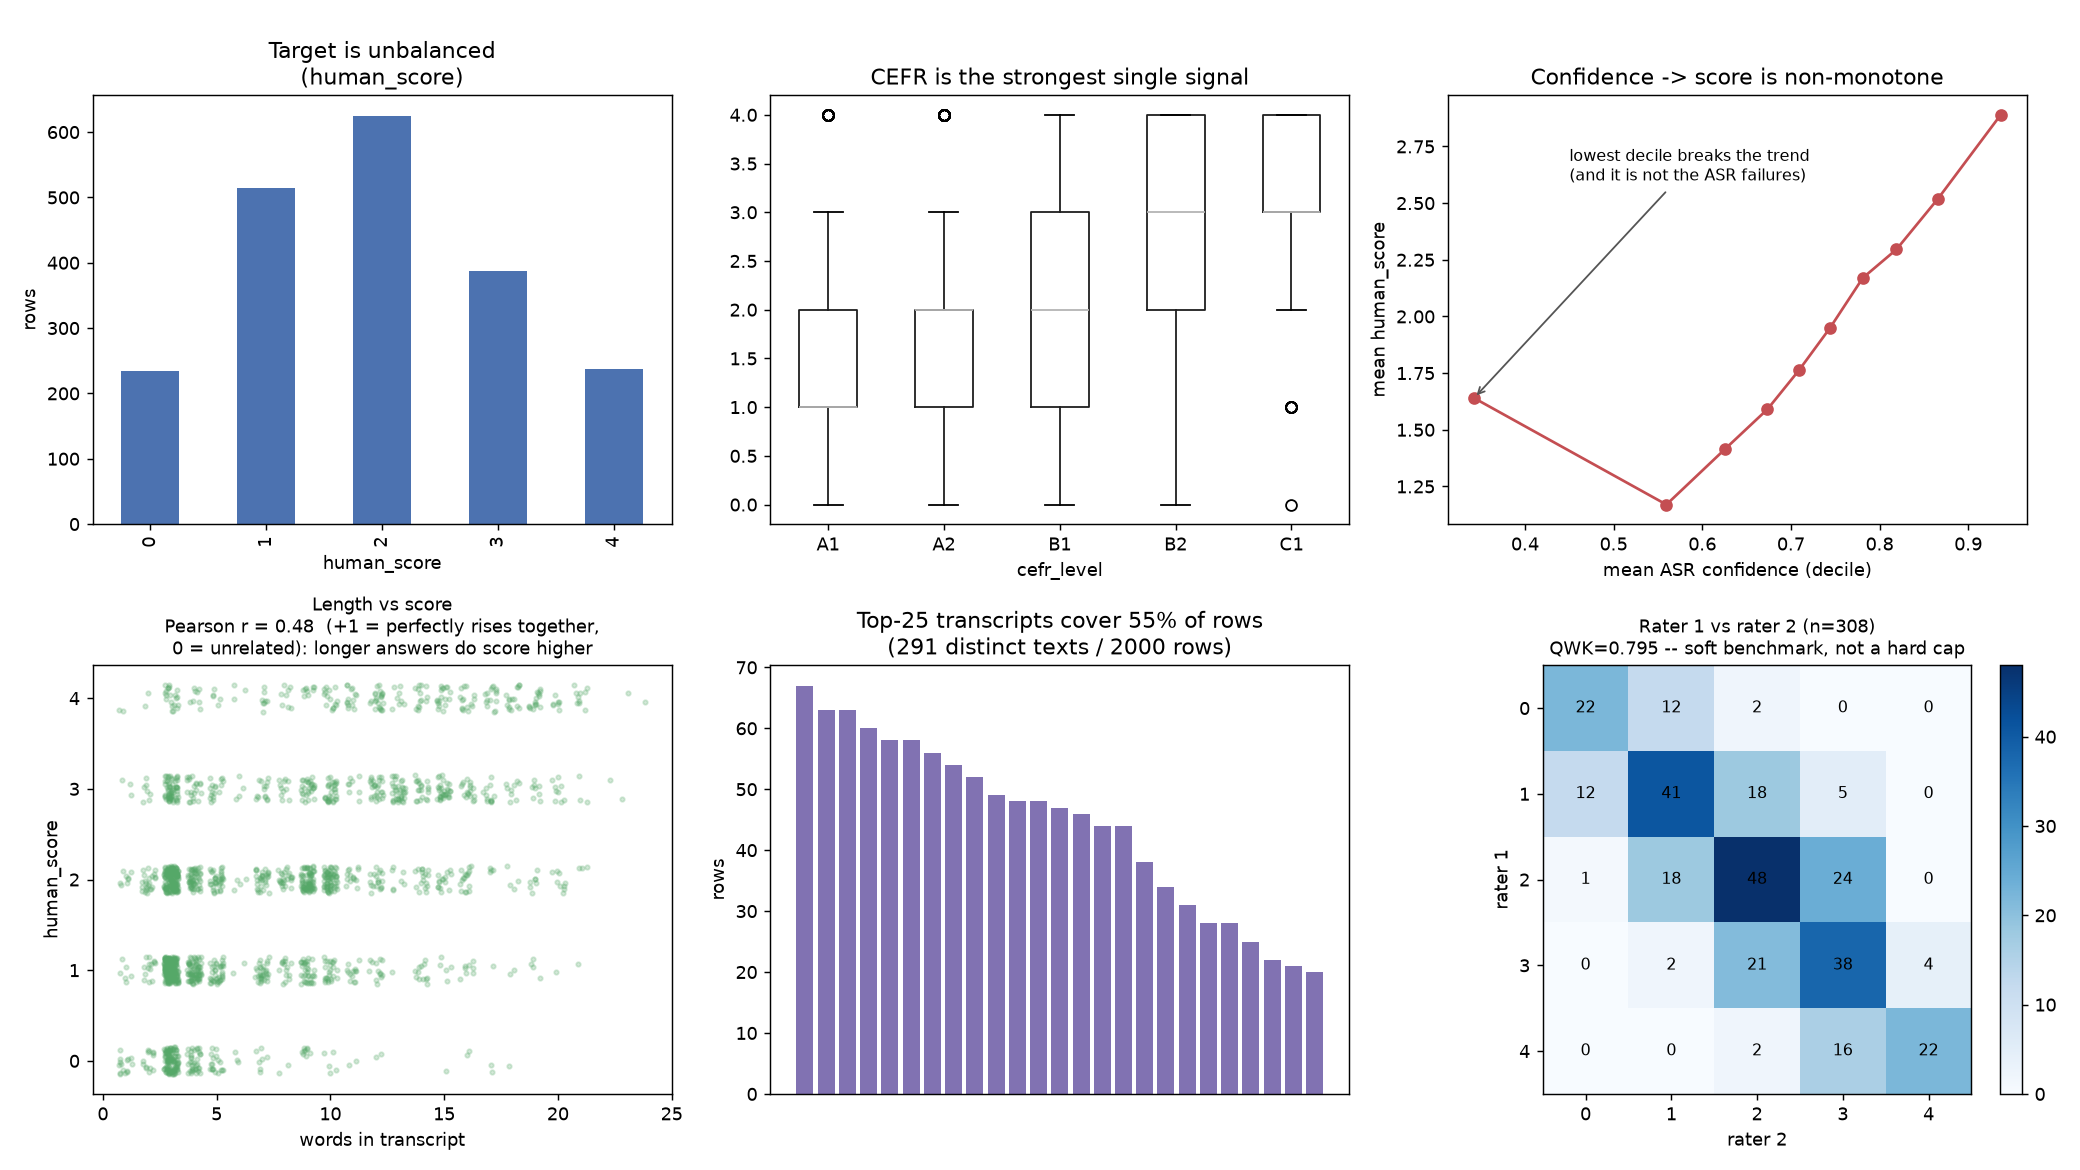
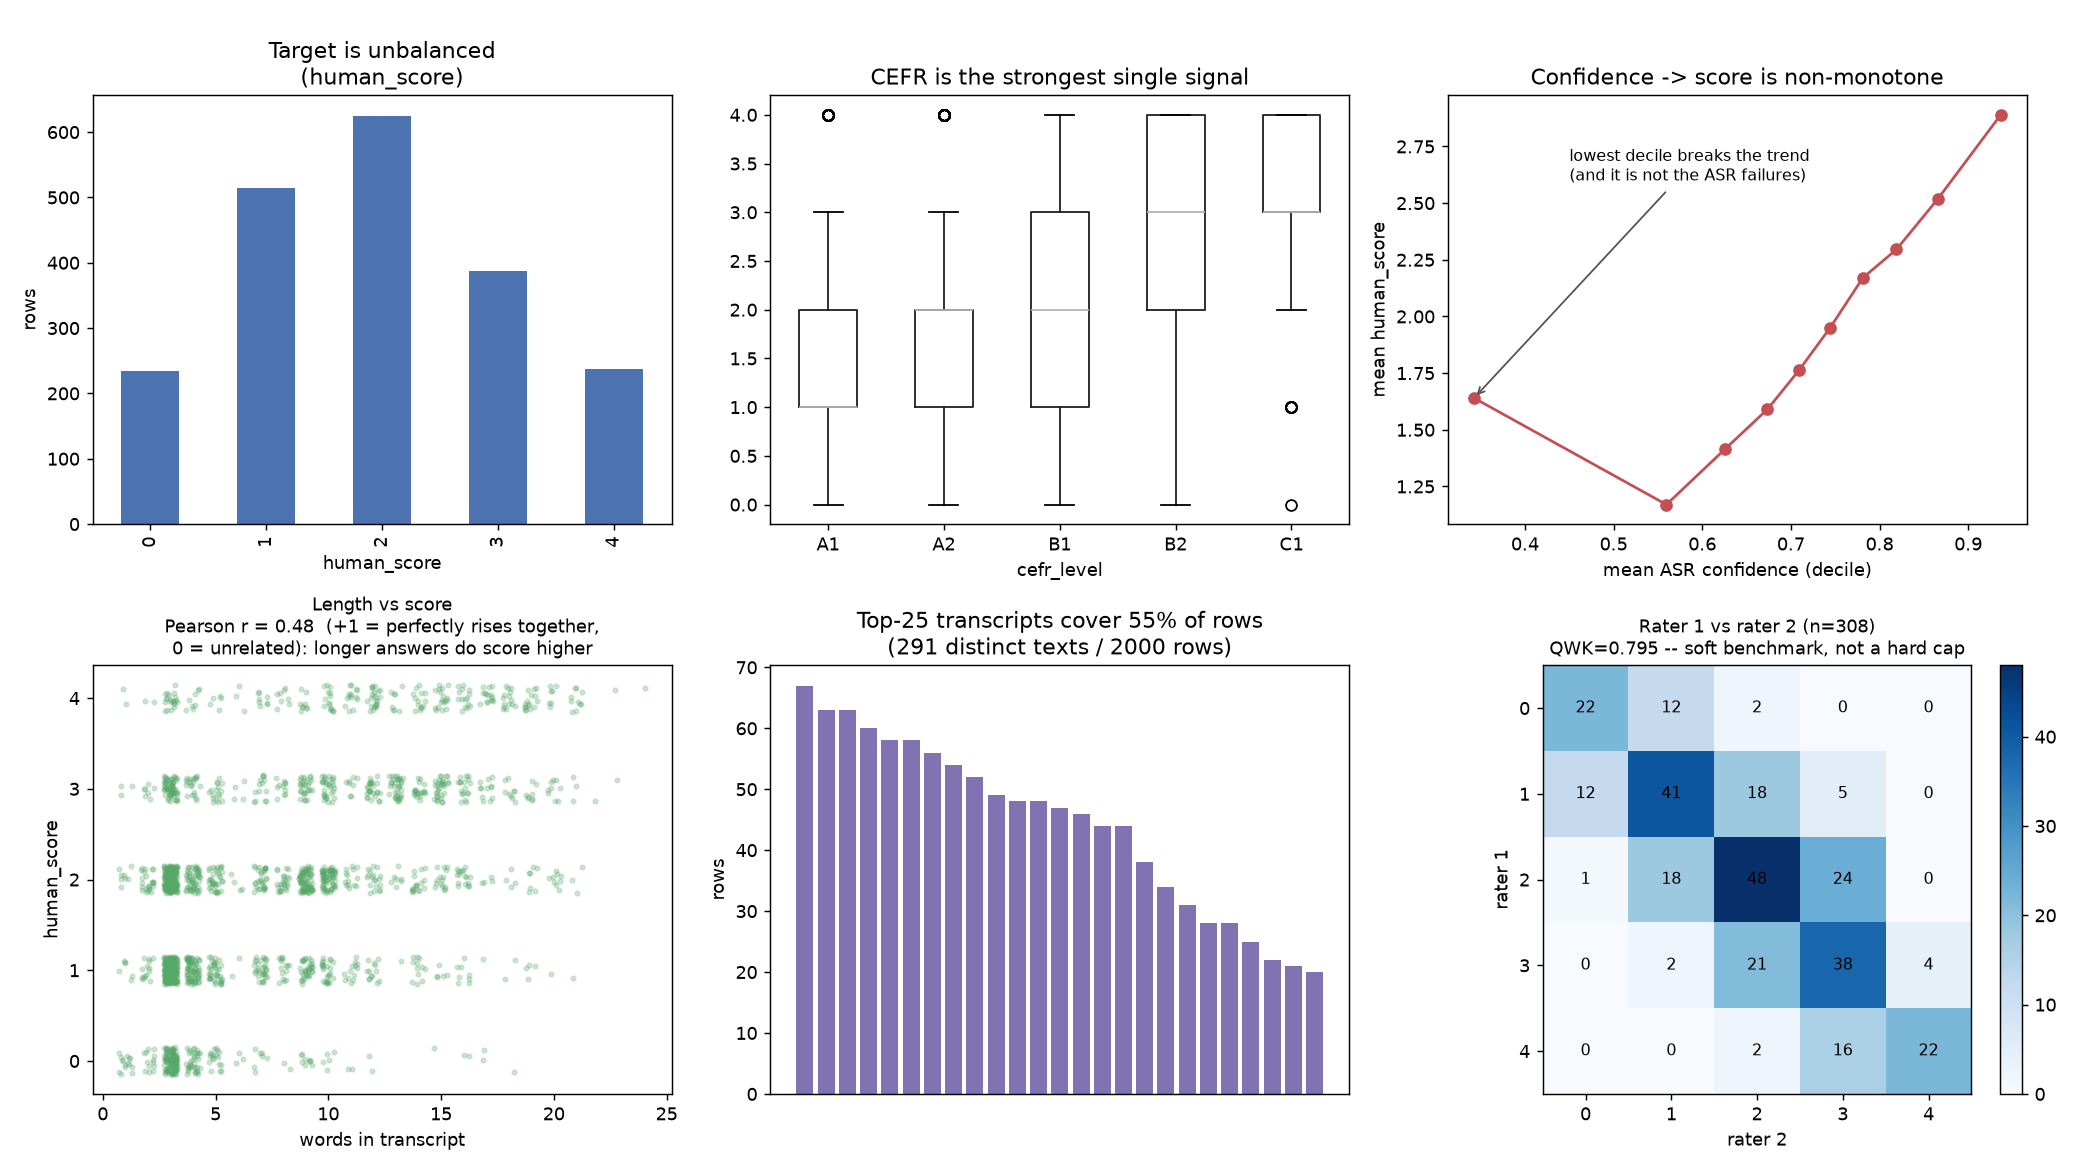
updated solution

diff --git a/solution/part3_transformer.py b/solution/part3_transformer.py
@@ -39,6 +39,10 @@ MAX_LEN = 128          # transcripts are short; actual batches come out ~42 toke
 EPOCHS = 4
 BATCH = 16
 LR = 3e-5
+# The head is randomly initialised while the encoder is pretrained. Training both
+# at 3e-5 leaves the head unable to use the structured stream at all -- T2 then
+# ties T1 exactly. See the AI collaboration log in the report.
+HEAD_LR = 1e-2
 STRUCTURED = ("length", "asr", "lang", "cefr")
 torch.set_num_threads(4)
 
@@ -197,14 +201,15 @@ def main() -> None:
     print(f"  {fmt(results['T0 frozen MiniLM + Ridge'])}   [{time.time() - t0:.0f}s]")
 
     # ---------------------------------------------------------------- T1, T2
-    for tag, use_struct, label in [
-            ("T1", False, "T1 MiniLM fine-tuned (text only)"),
-            ("T2", True, "T2 MiniLM fine-tuned + structured")]:
+    for tag, use_struct, hl, label in [
+            ("T1", False, None, "T1 MiniLM fine-tuned (text only)"),
+            ("T2", True, HEAD_LR, "T2 MiniLM fine-tuned + structured")]:
         h(f"{tag}. {label}")
         t0 = time.time()
         oof = np.zeros(len(train))
         for k, (a, b) in enumerate(folds(train, grouped=True)):
-            p, _, _ = fit_predict(train.iloc[a], y_tr[a], train.iloc[b], use_struct)
+            p, _, _ = fit_predict(train.iloc[a], y_tr[a], train.iloc[b],
+                                  use_struct, head_lr=hl)
             oof[b] = p
             print(f"  fold {k + 1}/5 done  [{time.time() - t0:.0f}s]", flush=True)
         results[label] = score_all(y_tr, oof)
@@ -225,7 +230,8 @@ def main() -> None:
                key=lambda k: results[k]["MAE"])
     print(f"best transformer on CV: {best}\n")
     pred_te, model, tok2 = fit_predict(train, y_tr, test, best.startswith("T2"),
-                                       quiet=False)
+                                       quiet=False,
+                                       head_lr=HEAD_LR if best.startswith("T2") else None)
     s_te = score_all(y_te, pred_te)
     print(f"\n  {best}")
     print(f"    CV over train : {fmt(results[best])}")
@@ -279,8 +285,7 @@ def figure() -> None:
     train = full.iloc[tr_i].reset_index(drop=True)
     y = train["human_score"].to_numpy()
     rf = to_labels(np.load(FIGDIR.parent / "oof_part2.npy"))
-    # part3_headlr.py produced the repaired T2 after main() ran, so score it here.
-    t2_cont = np.load(FIGDIR.parent / "oof_t2_hl0.01.npy")
+    t2_cont = np.load(FIGDIR.parent / "oof_t2.npy")
     res = pd.read_csv(FIGDIR.parent / "part3_results.csv", index_col=0)
     res = res.drop(index="T2 MiniLM fine-tuned + structured")
     res.loc["T2 fine-tuned + structured"] = score_all(y, t2_cont)
